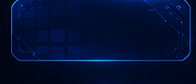
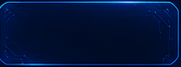
Fondo de pestañas con imagen a medida (boton completo, esquinas redondeadas)

diff --git a/styles.css b/styles.css
@@ -91,10 +91,10 @@ body {
 }
 .tab {
   border: none;
-  background: url("bg-tab.png") center / 100% 100% no-repeat;
+  background: url("bg-tab.png?v=2") center / 100% 100% no-repeat;
   color: var(--muted);
-  padding: 11px 18px;
-  border-radius: 12px 12px 0 0;
+  padding: 12px 20px;
+  border-radius: 10px;
   cursor: pointer;
   font-size: 14px;
   display: flex; align-items: center; gap: 8px;